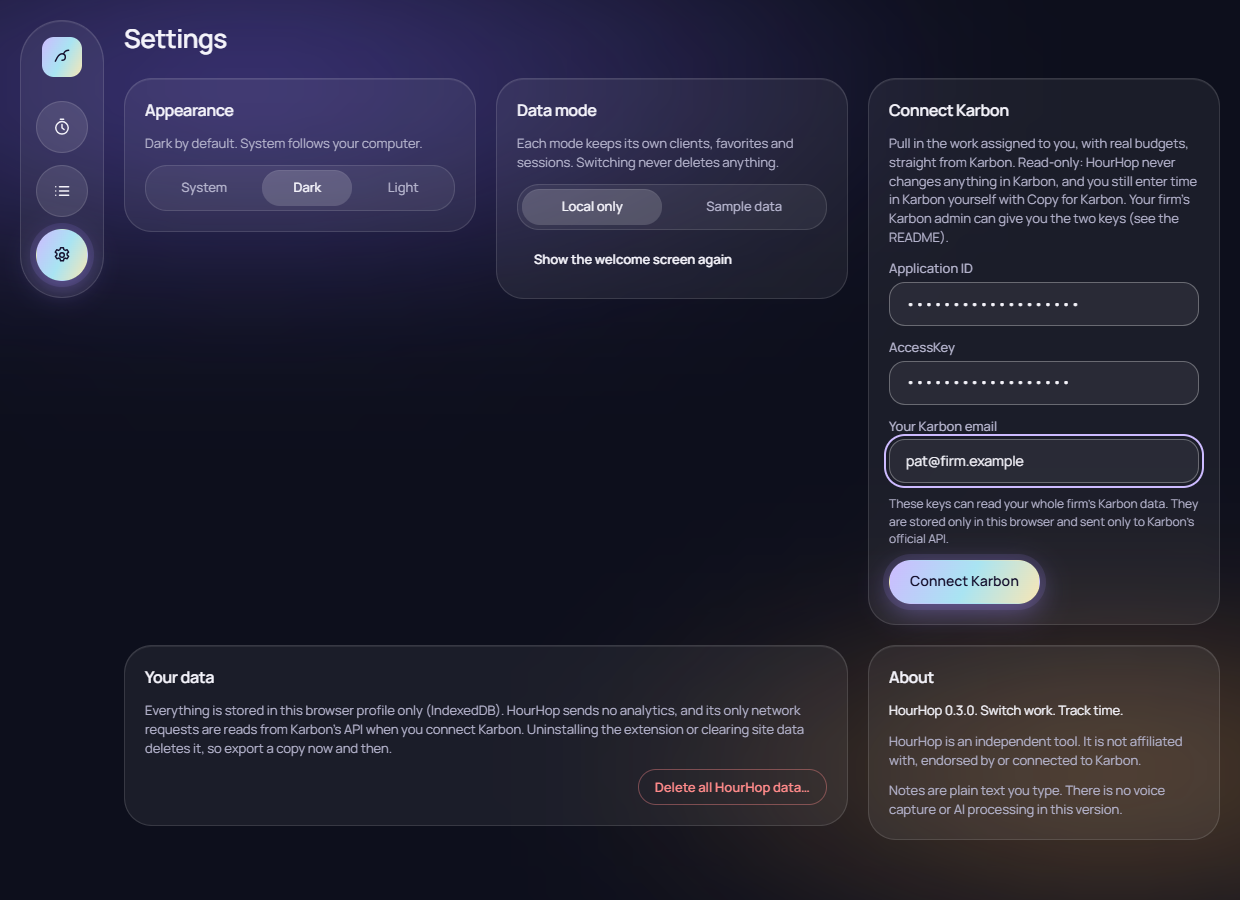
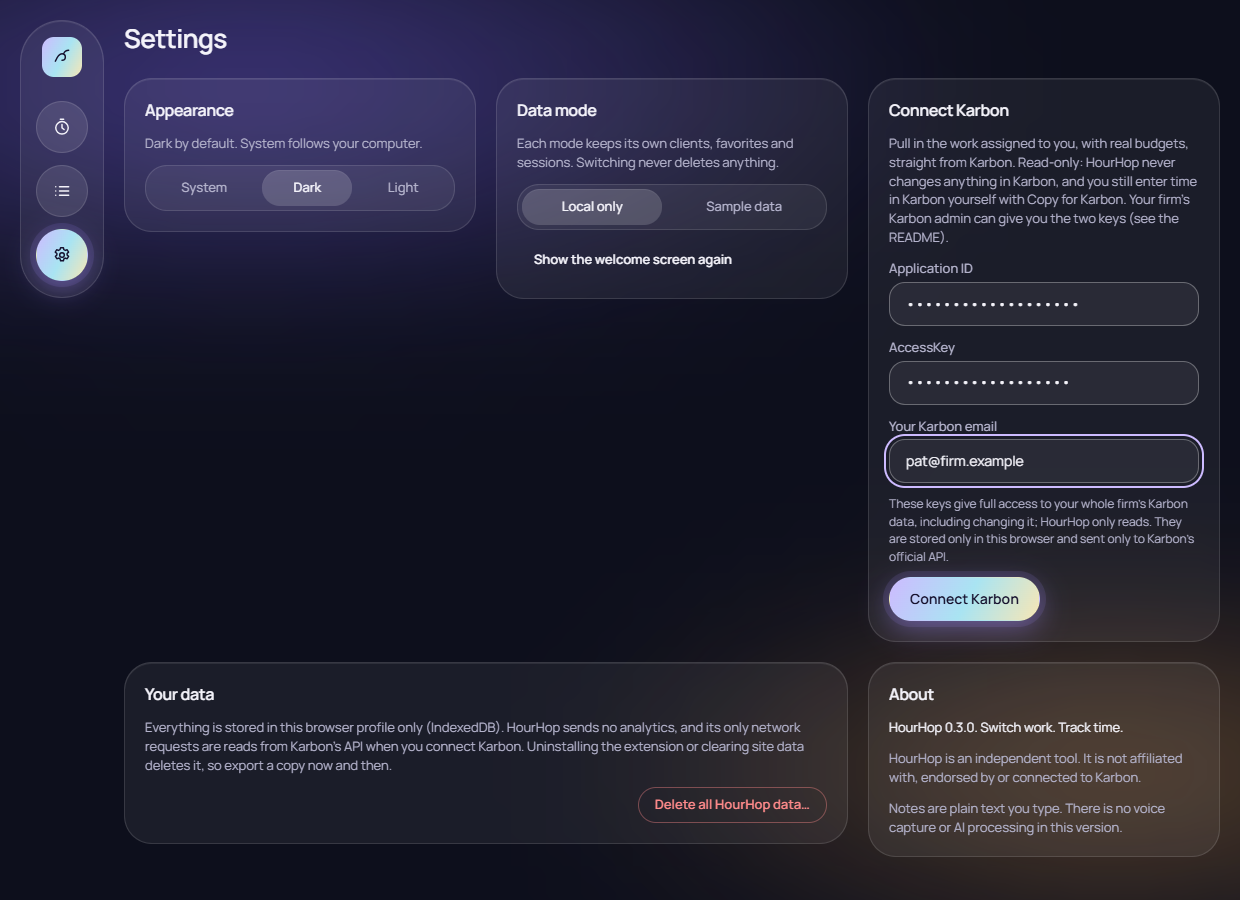
docs: say the Karbon keys allow writes, not just reads

Changed region(s): [[0.7048, 0.5289, 0.9806, 0.9333], [0.0919, 0.7156, 0.6435, 0.8711], [0.521, 0.8711, 0.6742, 0.9022]]

diff --git a/src/ui/views/Settings.tsx b/src/ui/views/Settings.tsx
@@ -128,7 +128,7 @@ function KarbonCard({ app, onNotice }: { app: AppApi; onNotice: (m: string) => v
         <TextField label="Application ID" type="password" autocomplete="new-password" value={appId} onInput={(e) => setAppId((e.currentTarget as HTMLInputElement).value)} />
         <TextField label="AccessKey" type="password" autocomplete="new-password" value={accessKey} onInput={(e) => setAccessKey((e.currentTarget as HTMLInputElement).value)} />
         <TextField label="Your Karbon email" type="email" autocomplete="email" value={email} onInput={(e) => setEmail((e.currentTarget as HTMLInputElement).value)} />
-        <p class="xs muted">These keys can read your whole firm's Karbon data. They are stored only in this browser and sent only to Karbon's official API.</p>
+        <p class="xs muted">These keys give full access to your whole firm's Karbon data, including changing it; {APP.brand} only reads. They are stored only in this browser and sent only to Karbon's official API.</p>
         <div><Button variant="primary" busy={app.busy === 'karbon-connect'} onClick={connect}>Connect Karbon</Button></div>
       </section>
     );

diff --git a/README.md b/README.md
@@ -36,7 +36,7 @@ What happens next:
 
 Please know before connecting:
 
-- **The keys can read the whole firm's Karbon data.** HourHop only asks Karbon for your assigned work and only shows you that, but the keys themselves are not limited to you. Treat them like a password. They are stored only in this browser profile, are sent only to `https://api.karbonhq.com`, are never shown again after saving, and are removed by **Disconnect** or **Delete all data**.
+- **The keys give full access to the whole firm's Karbon data.** Karbon's API uses the same two keys to read and to create, change or delete contacts, work items, notes and more, and Karbon documents no read-only key. HourHop only reads your assigned work and its budgets, but the keys themselves are not limited to you or to reading. Treat them like an admin password. They are stored only in this browser profile, are sent only to `https://api.karbonhq.com`, are never shown again after saving, and are removed by **Disconnect** or **Delete all data**.
 - **HourHop never writes to Karbon.** Every request is a read (`GET`), enforced by tests on the shipped build.
 - **Not yet verified against a live Karbon account.** The integration is built and tested against Karbon's published API specification ([karbonhq/karbon-api-reference](https://github.com/karbonhq/karbon-api-reference), version of 29 October 2026, last checked 19 November 2026) with a simulated Karbon that behaves as that specification describes. If connecting fails, the message says why (rejected keys, API access not enabled, email not found, network); please open an issue with that message.
 
